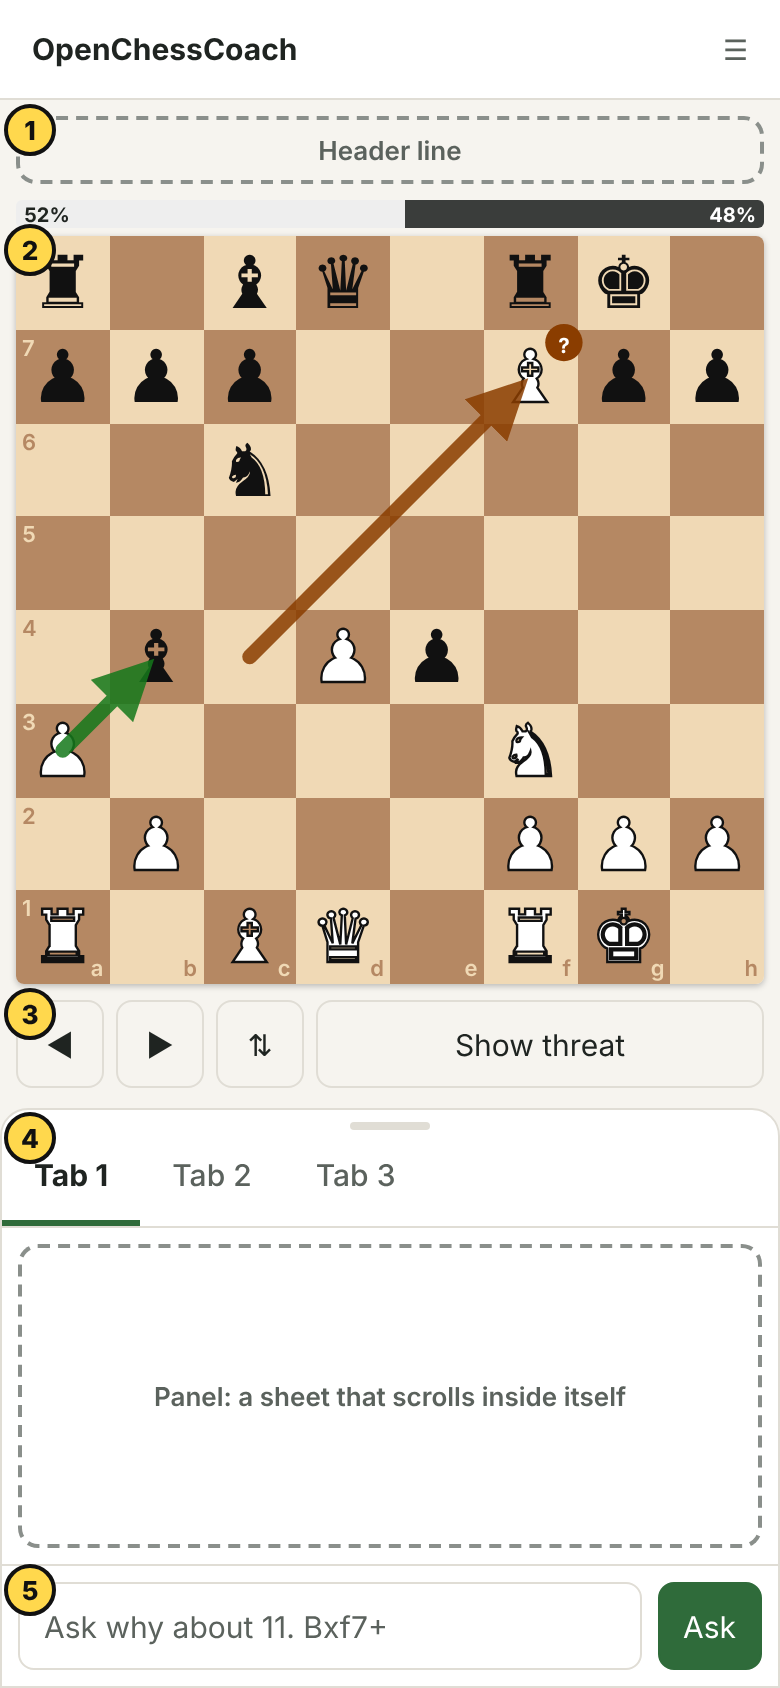
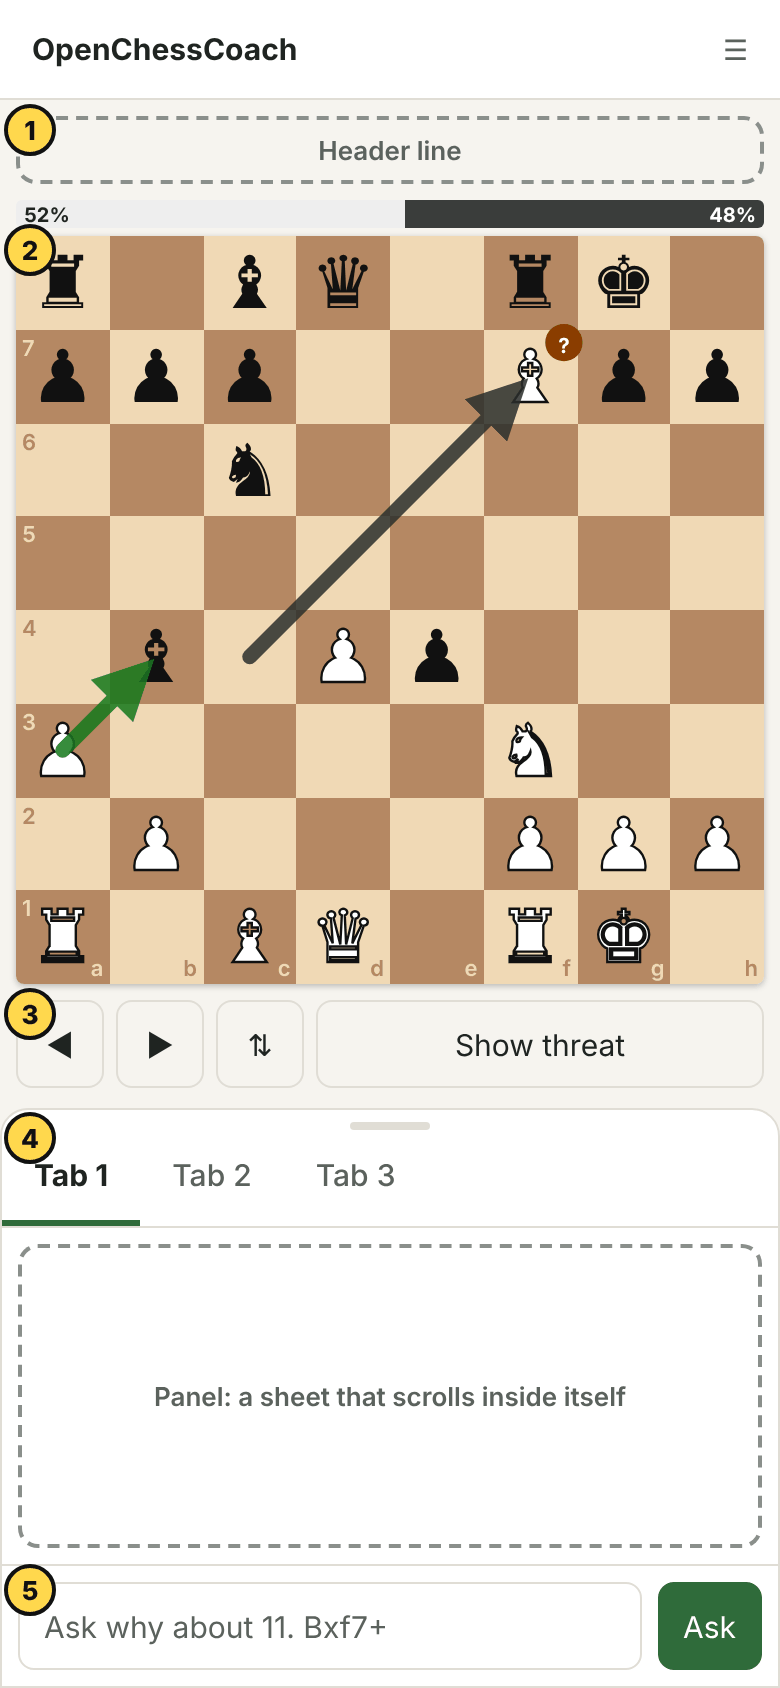
Guidelines: fix what the review found
- The played move's arrow is ink, its grade on the square: the grade
  colours clash with the best and tempting arrows.
- No free board during a Lesson and no green arrow that could name a
  move the Lesson will ask for (ADR 0012).
- Why Questions about a variation send moves only; the desktop's Engine
  builds the facts (ADR 0007), and the Ask box says when it can't.
- The fixed evaluation sign names the formatter it changes.
- Collapse state lives in localStorage, read before first paint, not in
  the asynchronous offline store.
- The PR template and the verify skill point at the checklist, so the
  CLAUDE.md rule has something that asks for it.
- The header example's result, where the screenshots live, and smaller
  sketch exports.

Changed region(s): [[0.4923, 0.2156, 0.6769, 0.3081], [0.3077, 0.3389, 0.4308, 0.4005], [0.4308, 0.3081, 0.4923, 0.3389]]

diff --git a/docs/design/interface-guidelines.md b/docs/design/interface-guidelines.md
@@ -33,7 +33,7 @@ screen fills the frame's slots; it doesn't invent its own layout.
 
 | Slot | What goes in it | Always visible |
 | --- | --- | --- |
-| **Header line** | What this is, in words: "Review · You had Black · Lost 0-1", "Lesson · Forks · 2 of 5" | Yes |
+| **Header line** | What this is, in words: "Review · You had Black · Lost 1-0", "Lesson · Forks · 2 of 5" | Yes |
 | **Board** | The board, with the Winning Chances bar beside it on desktop and above it on a phone | Yes |
 | **Board bar** | Step buttons (⏮ ◀ ▶ ⏭), Flip board, and the screen's one or two board tools (Threat, Hint) | Yes |
 | **Panel** | The screen's content: the Coach, the moves, the key moments, the Lesson text | Its top and its Ask box |
@@ -67,14 +67,17 @@ screen fills the frame's slots; it doesn't invent its own layout.
 ## Exploring a position
 
 Every board that shows a position to learn from lets the Player move pieces: the Review, a Lesson
-once it is over (or between decisions, on its own "Try it" board), a solved Puzzle, an Engine Game
-once it is over, and the Board.
+once it is over, a solved Puzzle, an Engine Game once it is over, and the Board. Not a Lesson in
+progress: the next decision's answer stays kept back (ADR 0012), so no free board, Engine grade or
+arrow there may show a move the Lesson will ask for.
 
 - A move on such a board starts a **variation**. The move list shows it indented under the move it
   branches from, and the board bar shows **Back to the game**, which drops the variation and returns
   to where the Player left the game line.
-- The Engine grades variation moves like any other (the browser's Engine, ADR 0007), and the Ask box
-  takes questions about them.
+- The browser's Engine grades variation moves on screen, as it does in play (ADR 0007). A Why
+  Question about a variation sends only the moves; the desktop's Engine works out the Coach's facts,
+  as for every Coach call. While the desktop can't be reached, the Ask box says so instead of
+  taking the question.
 - Stepping back and playing a different move never deletes the rest of a line without asking. On the
   Board it starts a variation; where a screen keeps only one line, it asks first.
 - A Review's "Better" moves, the Board's Engine lines and the moves in the overview are buttons: a
@@ -102,8 +105,10 @@ or a choice the Player must make now.
 | "How moves are written" | A help link next to the first notation the Player meets, not at the foot of the page | Help where it's needed |
 
 A collapsed section always shows its heading and a one-line summary, uses a native `<details>` or a
-button with `aria-expanded`, and remembers its state on the device (the offline store in
-`lib/storage.ts`, so a blocked storage only loses the memory, never the screen).
+button with `aria-expanded`, and remembers its state on the device in `localStorage`, read synchronously before the first paint so
+nothing jumps, and wrapped in try/catch so a blocked storage only loses the memory, never the
+screen. (The offline store in `lib/storage.ts` is asynchronous and holds the pairing token and
+games, ADR 0003; it is the wrong place for this.)
 
 ## Numbers and words
 
@@ -111,7 +116,10 @@ button with `aria-expanded`, and remembers its state on the device (the offline 
   Review and a Lesson, they are the Player's own ("your winning chances 48% → 35%"). On the Board and
   in Engine lines they are White's, as on Lichess.
 - **One sign convention.** Where an evaluation shows, "+" always means White is better, on every
-  screen, whoever is to move and whoever the Player is.
+  screen, whoever is to move and whoever the Player is. The percentage stays the Player's own where
+  the screen says so; only the evaluation's sign is fixed. Today `evaluation` in
+  `packages/shared/src/winning-chances.ts` follows the side the percentage is for, so this rule
+  changes that one formatter, not each screen.
 - **A label never repeats inside its value.** "Black's winning chances: 68%" is a label and a value;
   inside a sentence it is "68%". This holds for the Coach's text too: what the Coach brief gives the
   Coach is a value, not a label.
@@ -131,11 +139,15 @@ the Player asks (the moment's "Show all", Threat, a hovered Engine line).
 
 | Colour | Means | Where |
 | --- | --- | --- |
-| Green | The Engine's best move | Review, Lesson feedback, Engine lines, Hints that show the move |
-| The Move Grade's colour | The move that was played, graded | Review, Engine Game, Lesson feedback |
+| Ink (near black) | The move that was played; its Move Grade shows as the badge on its square, not as the arrow's colour | Review, Engine Game, Lesson feedback |
+| Green | The Engine's best move | Review, Engine lines, Engine Game Hints that show the move; in a Lesson only where ADR 0012 allows (never a move the Lesson will ask for) |
 | Blue | Another good move (the Engine's second choice, or the Coach's alternative) | Review, Board |
 | Red, dashed | The opponent's threat | Threat, the Blunder pause (the move that wins the piece) |
 | Orange | The move many players would reach for (a tempting move) | Review, Why Questions |
+
+The played move's arrow is ink, not its Move Grade's colour, because the grade colours overlap the
+others: a Mistake's dark orange is the tempting move's orange, and a Good move's green is the best
+move's green.
 
 - Every board that draws arrows shows a legend of the colours on it now, as one line under the board
   (● played ● best ● threat), and every arrow keeps its accessible name.
@@ -197,6 +209,8 @@ the Player asks (the moment's "Show all", Threat, a hovered Engine line).
 
 - Panel: the part's title and key idea, the decision prompt, then the feedback for the last move,
   with Continue or Try another move as the first thing under it.
+- The board takes the Lesson's moves only while a decision waits; arrows and highlights follow
+  `lessonArrows` and `lessonHighlights` in `lib/arrows.ts` (ADR 0012).
 - After a decision's feedback, the board scrolls nowhere: Continue keeps the board where it was.
 - At the end, "What you learned" and the next Lesson, with the final position free to explore.
 

diff --git a/CLAUDE.md b/CLAUDE.md
@@ -36,7 +36,7 @@ A rule that only lives in a document gets broken. When agents repeat a mistake, 
 | PRs merge on evidence from the running app (ADR 0006) | `.github/pull_request_template.md`, the `no-evidence` label, `.claude/skills/verify/` |
 | A PR that changes the app merges only with a Verdict on its head commit from a judge that didn't write it; a push voids it (ADR 0013) | `.github/workflows/verdict.yml`, the `Verdict` status `main` requires, `pr-labels.yml` (pending after a push), `scripts/test/verdict.test.ts` |
 | The judge runs once per finished PR: never on a draft or on a push, and within its run limits (ADR 0013) | `.github/workflows/verdict.yml` (its triggers, `MAX_RUNS_PER_PR`, `MAX_RUNS_PER_DAY`), `.github/no-verdict-paths.txt` (`scripts/test/protected-paths.test.ts`) |
-| Screens follow the interface guidelines: the board stays in view, every board that shows a position to learn from can be explored, the Ask box is docked beside the board, and one idea shows once | Only `docs/design/interface-guidelines.md` (its checklist, for any PR that changes what a Player sees) and this file |
+| Screens follow the interface guidelines: the board stays in view, every board that shows a position to learn from can be explored, the Ask box is docked beside the board, and one idea shows once | The guidelines' checklist in `docs/design/interface-guidelines.md`, which `.github/pull_request_template.md` and `.claude/skills/verify/SKILL.md` (section 4) ask every PR that changes what a Player sees to tick; otherwise only this file |
 | A PR that changes what a Player sees embeds before and after screenshots inline, desktop and phone | `scripts/before-after.ts` makes the picture; otherwise only this file and `.claude/skills/verify/SKILL.md` (section 4) |
 | Verify mode is deterministic: same position, same evaluation and Move Grades (ADR 0006) | `e2e/journeys/board.spec.ts` |
 | Player-facing text uses the glossary, not its avoided terms (`CONTEXT.md`) | `scripts/glossary-lint.ts` in `npm run lint`; Lesson text: `packages/shared/test/content.test.ts` |

diff --git a/docs/research/ui-ux-playtest.md b/docs/research/ui-ux-playtest.md
@@ -173,8 +173,11 @@ Ranked by how many Players they hurt and how often:
 Each playtester ran its own disposable copy of the app in verify mode (`npm run verify`, seeds
 `empty`, `many-games` and `default`) from `main` at 99a0ea7, with the fake Coach, and drove it with
 Playwright by accessible name at 1280 by 800 and at 390 by 844 with touch. No real model was called.
-The club player imported a game played as Black and reviewed it. About 230 screenshots are in the
-project's files under `evidence/ui-ux-playtest/` (`beginner/`, `casual/`, `club/`).
+The club player imported a game played as Black and reviewed it. The measurements above (page
+heights, y positions) were read from the page in Playwright. The playtests' screenshots, about 230,
+are not in the repository: they are in the project's shared files, under `evidence/ui-ux-playtest/`
+(`beginner/`, `casual/`, `club/`). Two of them appear, beside the guideline sketches, in
+`docs/design/images/review-desktop.png` and `review-phone.png`.
 
 Not covered: a real phone paired by QR code, offline mode, the real Coach's waiting times (the
 earlier study measured them: 7 to 63 seconds), and Lessons beyond the first of each track.

diff --git a/.github/pull_request_template.md b/.github/pull_request_template.md
@@ -20,7 +20,9 @@ Proof from the running app, following .claude/skills/verify/SKILL.md:
 - the commands you ran (npm run verify, coachctl ...) and their JSON output;
 - screenshots or accessibility snapshots from evidence/<runId>/;
 - database readback (coachctl db get <table>) for any side effect;
-- the Player journeys and tests you added or ran.
+- the Player journeys and tests you added or ran;
+- for a change to what a Player sees, the checklist at the end of docs/design/interface-guidelines.md,
+  ticked at desktop and phone sizes.
 A PR with nothing here gets the no-evidence label.
 -->
 

diff --git a/.claude/skills/verify/SKILL.md b/.claude/skills/verify/SKILL.md
@@ -129,6 +129,9 @@ description's **Evidence** section, collect:
 - database readback for every side effect (`coachctl db get <table>`);
 - the journeys you added or ran, with their result (`npx playwright test e2e/journeys/<file>`).
 
+A PR that changes what a Player sees also ticks the checklist at the end of
+`docs/design/interface-guidelines.md` in its Evidence section, at desktop and phone sizes.
+
 A PR whose Evidence section is empty gets the `no-evidence` label. Copy the ticket's "Done means"
 checks into the PR and tick each one you proved.
 
